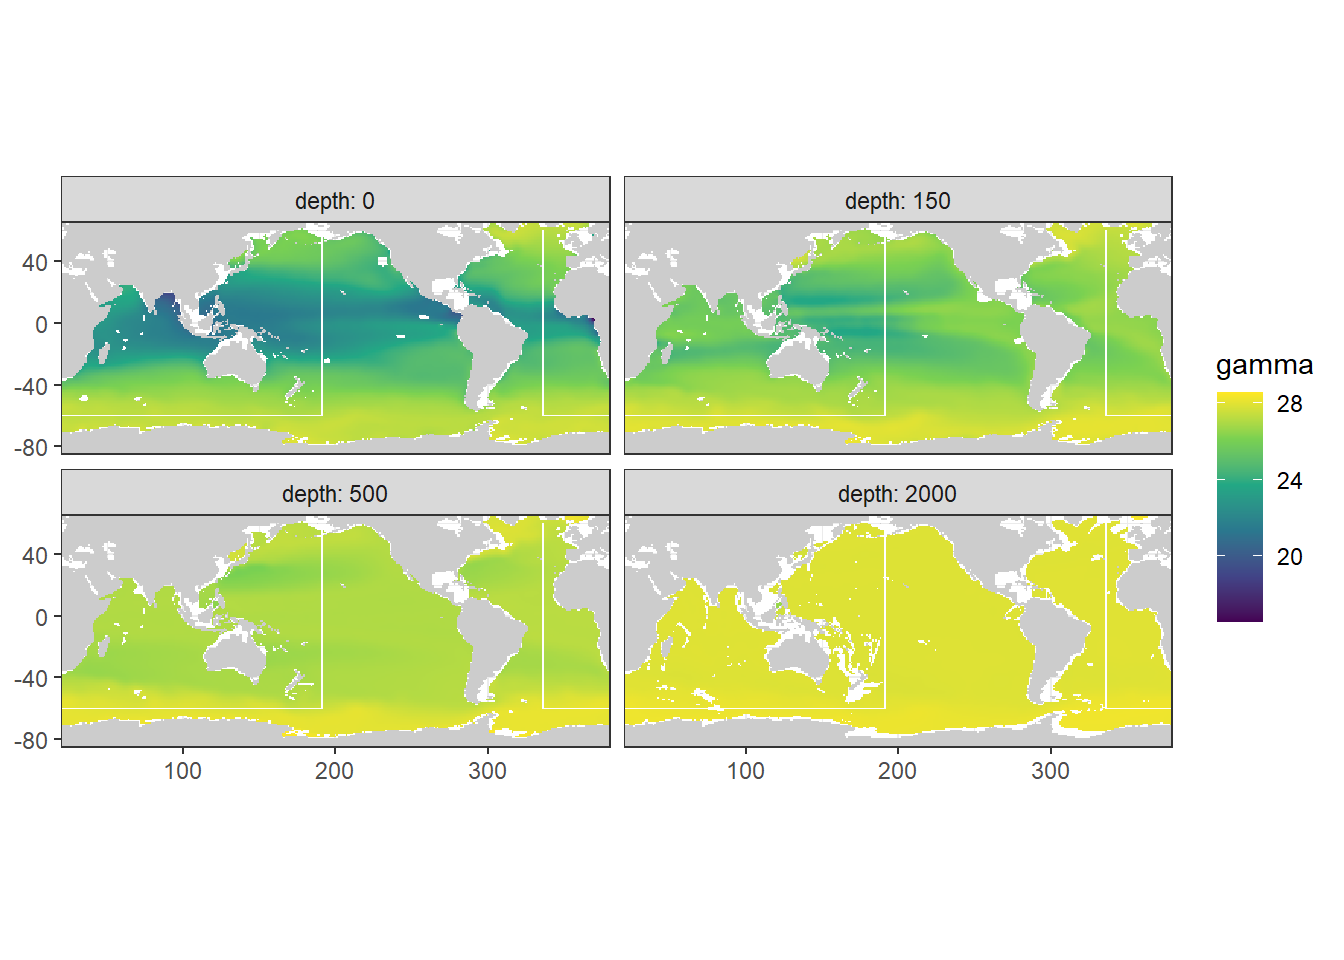
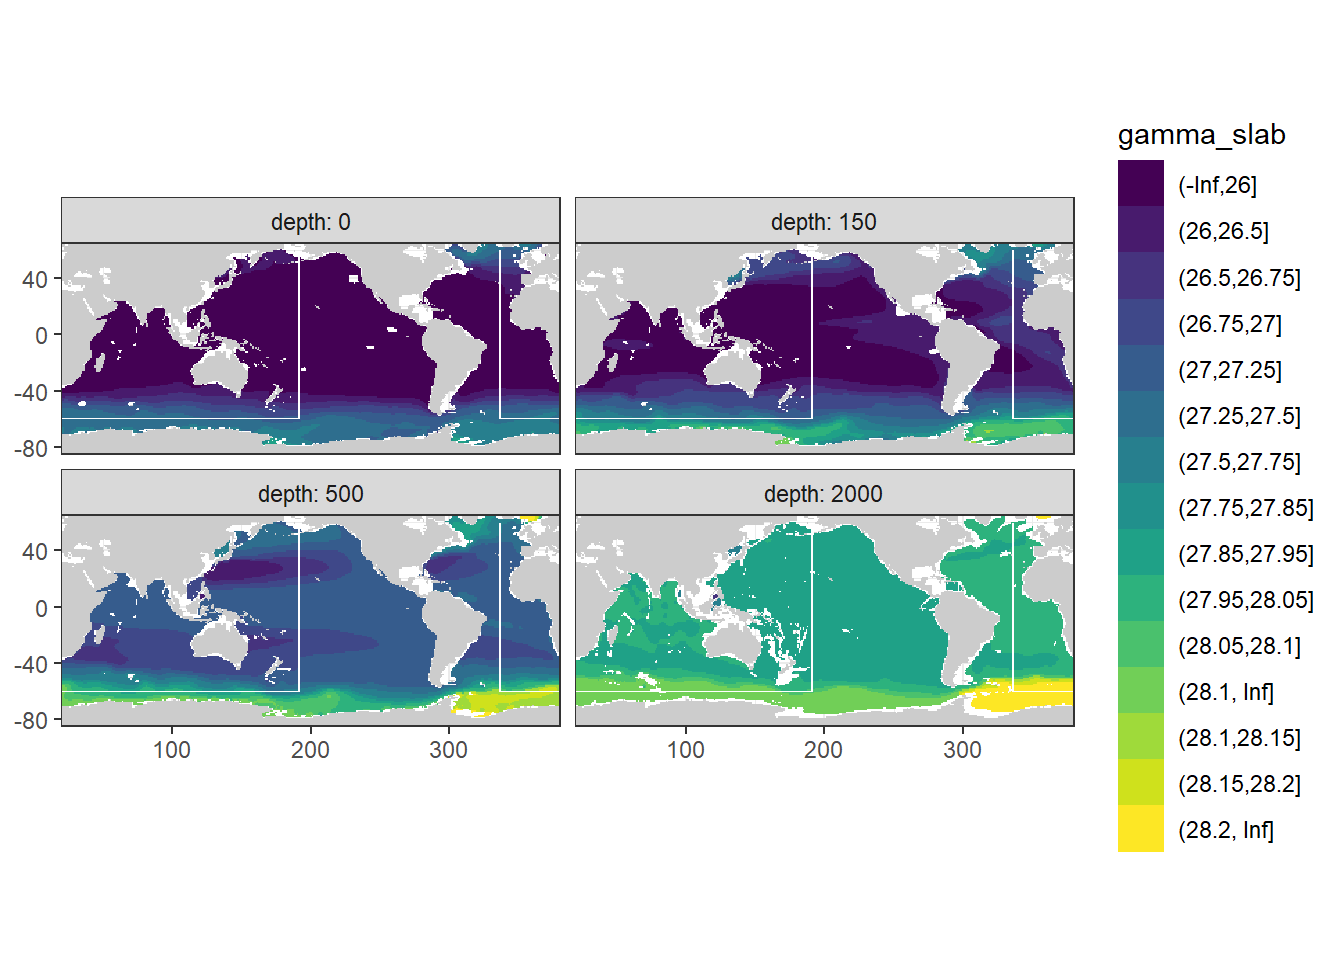
Build site.

diff --git a/docs/analysis_this_study.html b/docs/analysis_this_study.html
@@ -503,7 +503,7 @@ div.tocify {
 
 <h1 class="title toc-ignore">Analysis of Cant estimates</h1>
 <h4 class="author">Jens Daniel Müller</h4>
-<h4 class="date">18 September, 2020</h4>
+<h4 class="date">19 September, 2020</h4>
 
 </div>
 
@@ -528,7 +528,7 @@ div.tocify {
 <div class="tab-content">
 <div id="summary" class="tab-pane fade in active">
 <p>
-<strong>Last updated:</strong> 2020-09-18
+<strong>Last updated:</strong> 2020-09-19
 </p>
 <p>
 <strong>Checks:</strong> <span class="glyphicon glyphicon-ok text-success" aria-hidden="true"></span> 7 <span class="glyphicon glyphicon-exclamation-sign text-danger" aria-hidden="true"></span> 0
@@ -619,16 +619,16 @@ This reproducible <a href="http://rmarkdown.rstudio.com">R Markdown</a> analysis
 <div class="panel panel-default">
 <div class="panel-heading">
 <p class="panel-title">
-<a data-toggle="collapse" data-parent="#workflowr-checks" href="#strongRepositoryversionstrongahrefhttpsgithubcomjensdanielmuellerCanteMLRtree60efbf7ed264e72b27fb406772bcc8ad60063f9etargetblank60efbf7a"> <span class="glyphicon glyphicon-ok text-success" aria-hidden="true"></span> <strong>Repository version:</strong> <a href="https://github.com/jens-daniel-mueller/Cant_eMLR/tree/60efbf7ed264e72b27fb406772bcc8ad60063f9e" target="_blank">60efbf7</a> </a>
+<a data-toggle="collapse" data-parent="#workflowr-checks" href="#strongRepositoryversionstrongahrefhttpsgithubcomjensdanielmuellerCanteMLRtreeeb3478977ed7099951b134120acc68f9d04e7a49targetblankeb34789a"> <span class="glyphicon glyphicon-ok text-success" aria-hidden="true"></span> <strong>Repository version:</strong> <a href="https://github.com/jens-daniel-mueller/Cant_eMLR/tree/eb3478977ed7099951b134120acc68f9d04e7a49" target="_blank">eb34789</a> </a>
 </p>
 </div>
[2 lines of base64/hex data omitted]
 <div class="panel-body">
 <p>
 Great! You are using Git for version control. Tracking code development and connecting the code version to the results is critical for reproducibility.
 </p>
 <p>
-The results in this page were generated with repository version <a href="https://github.com/jens-daniel-mueller/Cant_eMLR/tree/60efbf7ed264e72b27fb406772bcc8ad60063f9e" target="_blank">60efbf7</a>. See the <em>Past versions</em> tab to see a history of the changes made to the R Markdown and HTML files.
+The results in this page were generated with repository version <a href="https://github.com/jens-daniel-mueller/Cant_eMLR/tree/eb3478977ed7099951b134120acc68f9d04e7a49" target="_blank">eb34789</a>. See the <em>Past versions</em> tab to see a history of the changes made to the R Markdown and HTML files.
 </p>
 <p>
 Note that you need to be careful to ensure that all relevant files for the analysis have been committed to Git prior to generating the results (you can use <code>wflow_publish</code> or <code>wflow_git_commit</code>). workflowr only checks the R Markdown file, but you know if there are other scripts or data files that it depends on. Below is the status of the Git repository when the results were generated:
@@ -685,6 +685,40 @@ Message
 </tr>
 </thead>
 <tbody>
+<tr>
+<td>
+Rmd
+</td>
+<td>
+<a href="https://github.com/jens-daniel-mueller/Cant_eMLR/blob/eb3478977ed7099951b134120acc68f9d04e7a49/analysis/analysis_this_study.Rmd" target="_blank">eb34789</a>
+</td>
+<td>
+jens-daniel-mueller
+</td>
+<td>
+2020-09-19
+</td>
+<td>
+gamma slab on depth levels plotted
+</td>
+</tr>
+<tr>
+<td>
+html
+</td>
+<td>
+<a href="https://rawcdn.githack.com/jens-daniel-mueller/Cant_eMLR/d2852196bb387efa270d22798c51ea7c3aa614a4/docs/analysis_this_study.html" target="_blank">d285219</a>
+</td>
+<td>
+jens-daniel-mueller
+</td>
+<td>
+2020-09-18
+</td>
+<td>
+Build site.
+</td>
+</tr>
 <tr>
 <td>
 Rmd
@@ -2374,34 +2408,34 @@ Cant_inv %&gt;%
 <p><img src="figure/analysis_this_study.Rmd/Cant_pos_inventory_map-1.png" width="672" style="display: block; margin: auto;" /></p>
 <pre class="r"><code>rm(breaks, breaks_n)</code></pre>
 </div>
-</div>
-<div id="global-section" class="section level1">
-<h1><span class="header-section-number">5</span> Global section</h1>
-<div id="jgofs_go" class="section level2">
-<h2><span class="header-section-number">5.1</span> JGOFS_GO</h2>
+<div id="global-section" class="section level2">
+<h2><span class="header-section-number">4.4</span> Global section</h2>
+<div id="jgofs_go" class="section level3">
+<h3><span class="header-section-number">4.4.1</span> JGOFS_GO</h3>
 <pre class="r"><code>section_global(Cant_average %&gt;% filter(eras == &quot;JGOFS_GO&quot;),
                     &quot;Cant_pos&quot;)</code></pre>
 <p><img src="figure/analysis_this_study.Rmd/Cant_sections_positive_mean_one_lon_JGOFS_GO-1.png" width="672" style="display: block; margin: auto;" /></p>
 </div>
-<div id="go_new" class="section level2">
-<h2><span class="header-section-number">5.2</span> GO_new</h2>
+<div id="go_new" class="section level3">
+<h3><span class="header-section-number">4.4.2</span> GO_new</h3>
 <pre class="r"><code>section_global(Cant_average %&gt;% filter(eras == &quot;GO_new&quot;),
                     &quot;Cant_pos&quot;)</code></pre>
 <p><img src="figure/analysis_this_study.Rmd/Cant_sections_positive_mean_one_lon_GO_new-1.png" width="672" style="display: block; margin: auto;" /></p>
 </div>
 </div>
+</div>
 <div id="cant---all" class="section level1">
-<h1><span class="header-section-number">6</span> Cant - all</h1>
+<h1><span class="header-section-number">5</span> Cant - all</h1>
 <p>In a second series of plots we explore the distribution of Cant, taking positive and negative estimates into account.</p>
 <div id="zonal-mean-sections-1" class="section level2">
-<h2><span class="header-section-number">6.1</span> Zonal mean sections</h2>
+<h2><span class="header-section-number">5.1</span> Zonal mean sections</h2>
 <pre class="r"><code>section_zonal_average_divergent(Cant_average_zonal,
                                 &quot;Cant_mean&quot;,
                                 &quot;gamma_mean&quot;)</code></pre>
 <p><img src="figure/analysis_this_study.Rmd/Cant_all_zonal_mean_sections-1.png" width="672" style="display: block; margin: auto;" /></p>
 </div>
 <div id="isoneutral-slab-distribution-1" class="section level2">
-<h2><span class="header-section-number">6.2</span> Isoneutral slab distribution</h2>
+<h2><span class="header-section-number">5.2</span> Isoneutral slab distribution</h2>
 <p>Mean of Cant within each horizontal grid cell (lon x lat) per isoneutral slab.</p>
 <p>Please note that:</p>
 <ul>
@@ -2443,7 +2477,7 @@ ggplot() +
 <pre class="r"><code>rm(Cant_gamma_maps, breaks, breaks_n)</code></pre>
 </div>
 <div id="inventory-map-1" class="section level2">
-<h2><span class="header-section-number">6.3</span> Inventory map</h2>
+<h2><span class="header-section-number">5.3</span> Inventory map</h2>
 <p>Column inventory of positive Cant between the surface and 3000m water depth per horizontal grid cell (lat x lon).</p>
 <pre class="r"><code>breaks &lt;- c(-Inf, seq(-16,16,4),Inf)
 breaks_n &lt;- length(breaks) - 1
@@ -2469,9 +2503,9 @@ Cant_inv %&gt;%
 </div>
 </div>
 <div id="cant---standard-deviation" class="section level1">
-<h1><span class="header-section-number">7</span> Cant - standard deviation</h1>
+<h1><span class="header-section-number">6</span> Cant - standard deviation</h1>
 <div id="across-models" class="section level2">
-<h2><span class="header-section-number">7.1</span> Across models</h2>
+<h2><span class="header-section-number">6.1</span> Across models</h2>
 <p>Standard deviation across Cant from all MLR models was calculate for each grid cell (XYZ). The zonal mean of this standard deviation should reflect the uncertainty associated to the predictor selection within each slab and era.</p>
 <pre class="r"><code>section_zonal_average_continous(Cant_average_zonal,
                                 &quot;Cant_sd_mean&quot;,
@@ -2479,7 +2513,7 @@ Cant_inv %&gt;%
 <p><img src="figure/analysis_this_study.Rmd/Cant_sections_sd_models-1.png" width="672" style="display: block; margin: auto;" /></p>
 </div>
 <div id="across-basins" class="section level2">
-<h2><span class="header-section-number">7.2</span> Across basins</h2>
+<h2><span class="header-section-number">6.2</span> Across basins</h2>
 <p>Standard deviation of mean Cant values was calculate across all longitudes. This standard deviation should reflect the zonal variability of Cant within the basin and era.</p>
 <pre class="r"><code>section_zonal_average_continous(Cant_average_zonal,
                                 &quot;Cant_sd&quot;,
@@ -2487,9 +2521,9 @@ Cant_inv %&gt;%
 <p><img src="figure/analysis_this_study.Rmd/Cant_sections_sd_Cant-1.png" width="672" style="display: block; margin: auto;" /></p>
 </div>
 <div id="correlation" class="section level2">
-<h2><span class="header-section-number">7.3</span> Correlation</h2>
+<h2><span class="header-section-number">6.3</span> Correlation</h2>
 <div id="cant-vs-model-sd" class="section level3">
-<h3><span class="header-section-number">7.3.1</span> Cant vs model SD</h3>
+<h3><span class="header-section-number">6.3.1</span> Cant vs model SD</h3>
 <pre class="r"><code>Cant_average &lt;- Cant_average  %&gt;% 
   mutate(eras = factor(eras, c(&quot;JGOFS_GO&quot;, &quot;GO_new&quot;)))
 
@@ -2517,7 +2551,7 @@ Cant_average %&gt;%
 <p><img src="figure/analysis_this_study.Rmd/Cant_vs_sd_by_basin_gamma-1.png" width="672" style="display: block; margin: auto;" /></p>
 </div>
 <div id="cant-vs-regional-sd" class="section level3">
-<h3><span class="header-section-number">7.3.2</span> Cant vs regional SD</h3>
+<h3><span class="header-section-number">6.3.2</span> Cant vs regional SD</h3>
 <pre class="r"><code>Cant_average_zonal %&gt;% 
   ggplot(aes(Cant_mean, Cant_sd)) +
   geom_vline(xintercept = 0) +
@@ -2544,7 +2578,7 @@ Cant_average %&gt;%
 </div>
 </div>
 <div id="cant---predictor-contribution" class="section level1">
-<h1><span class="header-section-number">8</span> Cant - predictor contribution</h1>
+<h1><span class="header-section-number">7</span> Cant - predictor contribution</h1>
 <pre class="r"><code>Cant_predictor_average_zonal &lt;- Cant_predictor_average_zonal %&gt;% 
   mutate(eras = factor(eras, c(&quot;JGOFS_GO&quot;, &quot;GO_new&quot;)))
 
@@ -2570,9 +2604,9 @@ section_zonal_average_continous(Cant_predictor_average_zonal,
 <pre class="r"><code>rm(variable)</code></pre>
 </div>
 <div id="neutral-density" class="section level1">
-<h1><span class="header-section-number">9</span> Neutral density</h1>
+<h1><span class="header-section-number">8</span> Neutral density</h1>
 <div id="slab-depth" class="section level2">
-<h2><span class="header-section-number">9.1</span> Slab depth</h2>
+<h2><span class="header-section-number">8.1</span> Slab depth</h2>
 <p>Please note that:</p>
 <ul>
 <li>density slabs covering values &gt;28.1 occur by definition only either in the Atlantic or Indo-Pacific basin</li>
@@ -2606,15 +2640,15 @@ ggplot() +
 <pre class="r"><code>rm(gamma_maps, GLODAP_obs_coverage)</code></pre>
 </div>
 <div id="surface-maps" class="section level2">
-<h2><span class="header-section-number">9.2</span> Surface maps</h2>
-<pre class="r"><code>map_climatology(Cant_average, &quot;gamma&quot;)</code></pre>
+<h2><span class="header-section-number">8.2</span> Surface maps</h2>
+<pre class="r"><code>map_climatology_discrete(Cant_average, &quot;gamma_slab&quot;)</code></pre>
 <p><img src="figure/analysis_this_study.Rmd/gamma_surface_map-1.png" width="672" style="display: block; margin: auto;" /></p>
 </div>
 <div id="zonal-sections" class="section level2">
-<h2><span class="header-section-number">9.3</span> Zonal sections</h2>
+<h2><span class="header-section-number">8.3</span> Zonal sections</h2>
 <p>The mean zonal distribution of neutral densities was calculated. <strong>CAVEAT:</strong> Due to practical reasons, binning here does not include the two highest isoneutral density slabs in the Atlantic, yet.</p>
 <div id="mean" class="section level3">
-<h3><span class="header-section-number">9.3.1</span> Mean</h3>
+<h3><span class="header-section-number">8.3.1</span> Mean</h3>
 <pre class="r"><code>Cant_average_zonal %&gt;% 
   filter(eras == &quot;JGOFS_GO&quot;) %&gt;% 
   ggplot(aes(lat, depth, z = gamma_mean)) +
@@ -2634,7 +2668,7 @@ ggplot() +
 <p><img src="figure/analysis_this_study.Rmd/gamma_sections_mean-1.png" width="672" style="display: block; margin: auto;" /></p>
 </div>
 <div id="sd" class="section level3">
-<h3><span class="header-section-number">9.3.2</span> SD</h3>
+<h3><span class="header-section-number">8.3.2</span> SD</h3>
 <p>Higher SD of gamma in shallow, subtropical waters results from a more pronounced longitudinal variability.</p>
 <pre class="r"><code>Cant_average_zonal %&gt;% 
   filter(eras == &quot;JGOFS_GO&quot;) %&gt;% 
@@ -2652,9 +2686,9 @@ ggplot() +
 </div>
 </div>
 <div id="cstar" class="section level1">
-<h1><span class="header-section-number">10</span> Cstar</h1>
+<h1><span class="header-section-number">9</span> Cstar</h1>
 <div id="zonal-mean-sections-2" class="section level2">
-<h2><span class="header-section-number">10.1</span> Zonal mean sections</h2>
+<h2><span class="header-section-number">9.1</span> Zonal mean sections</h2>
 <pre class="r"><code>Cstar_average_zonal &lt;- Cstar_average_zonal %&gt;% 
     mutate(era = factor(era, c(&quot;JGOFS_WOCE&quot;, &quot;GO_SHIP&quot;, &quot;new_era&quot;))) 
 
@@ -2680,11 +2714,11 @@ Cstar_average_zonal %&gt;%
 </div>
 </div>
 <div id="sections-by-model" class="section level1">
-<h1><span class="header-section-number">11</span> Sections by model</h1>
+<h1><span class="header-section-number">10</span> Sections by model</h1>
 <p>Zonal sections plots are produced for every 20° longitude, each era and for all models individually and can be downloaded <a href="https://github.com/jens-daniel-mueller/Cant_eMLR/tree/master/output/figure/mapping" target="_blank">here</a>.</p>
 </div>
 <div id="known-issues" class="section level1">
-<h1><span class="header-section-number">12</span> Known issues</h1>
+<h1><span class="header-section-number">11</span> Known issues</h1>
 <p>Deviations between this study and the results by Gruber et al (2019), short G19, for the same period, might be attributable to following known differences in the implementation of the eMLR(C*) method:</p>
 <ul>
 <li>GLODAPv2_2020 here vs an extended version of GLODAPv2 in G19</li>
